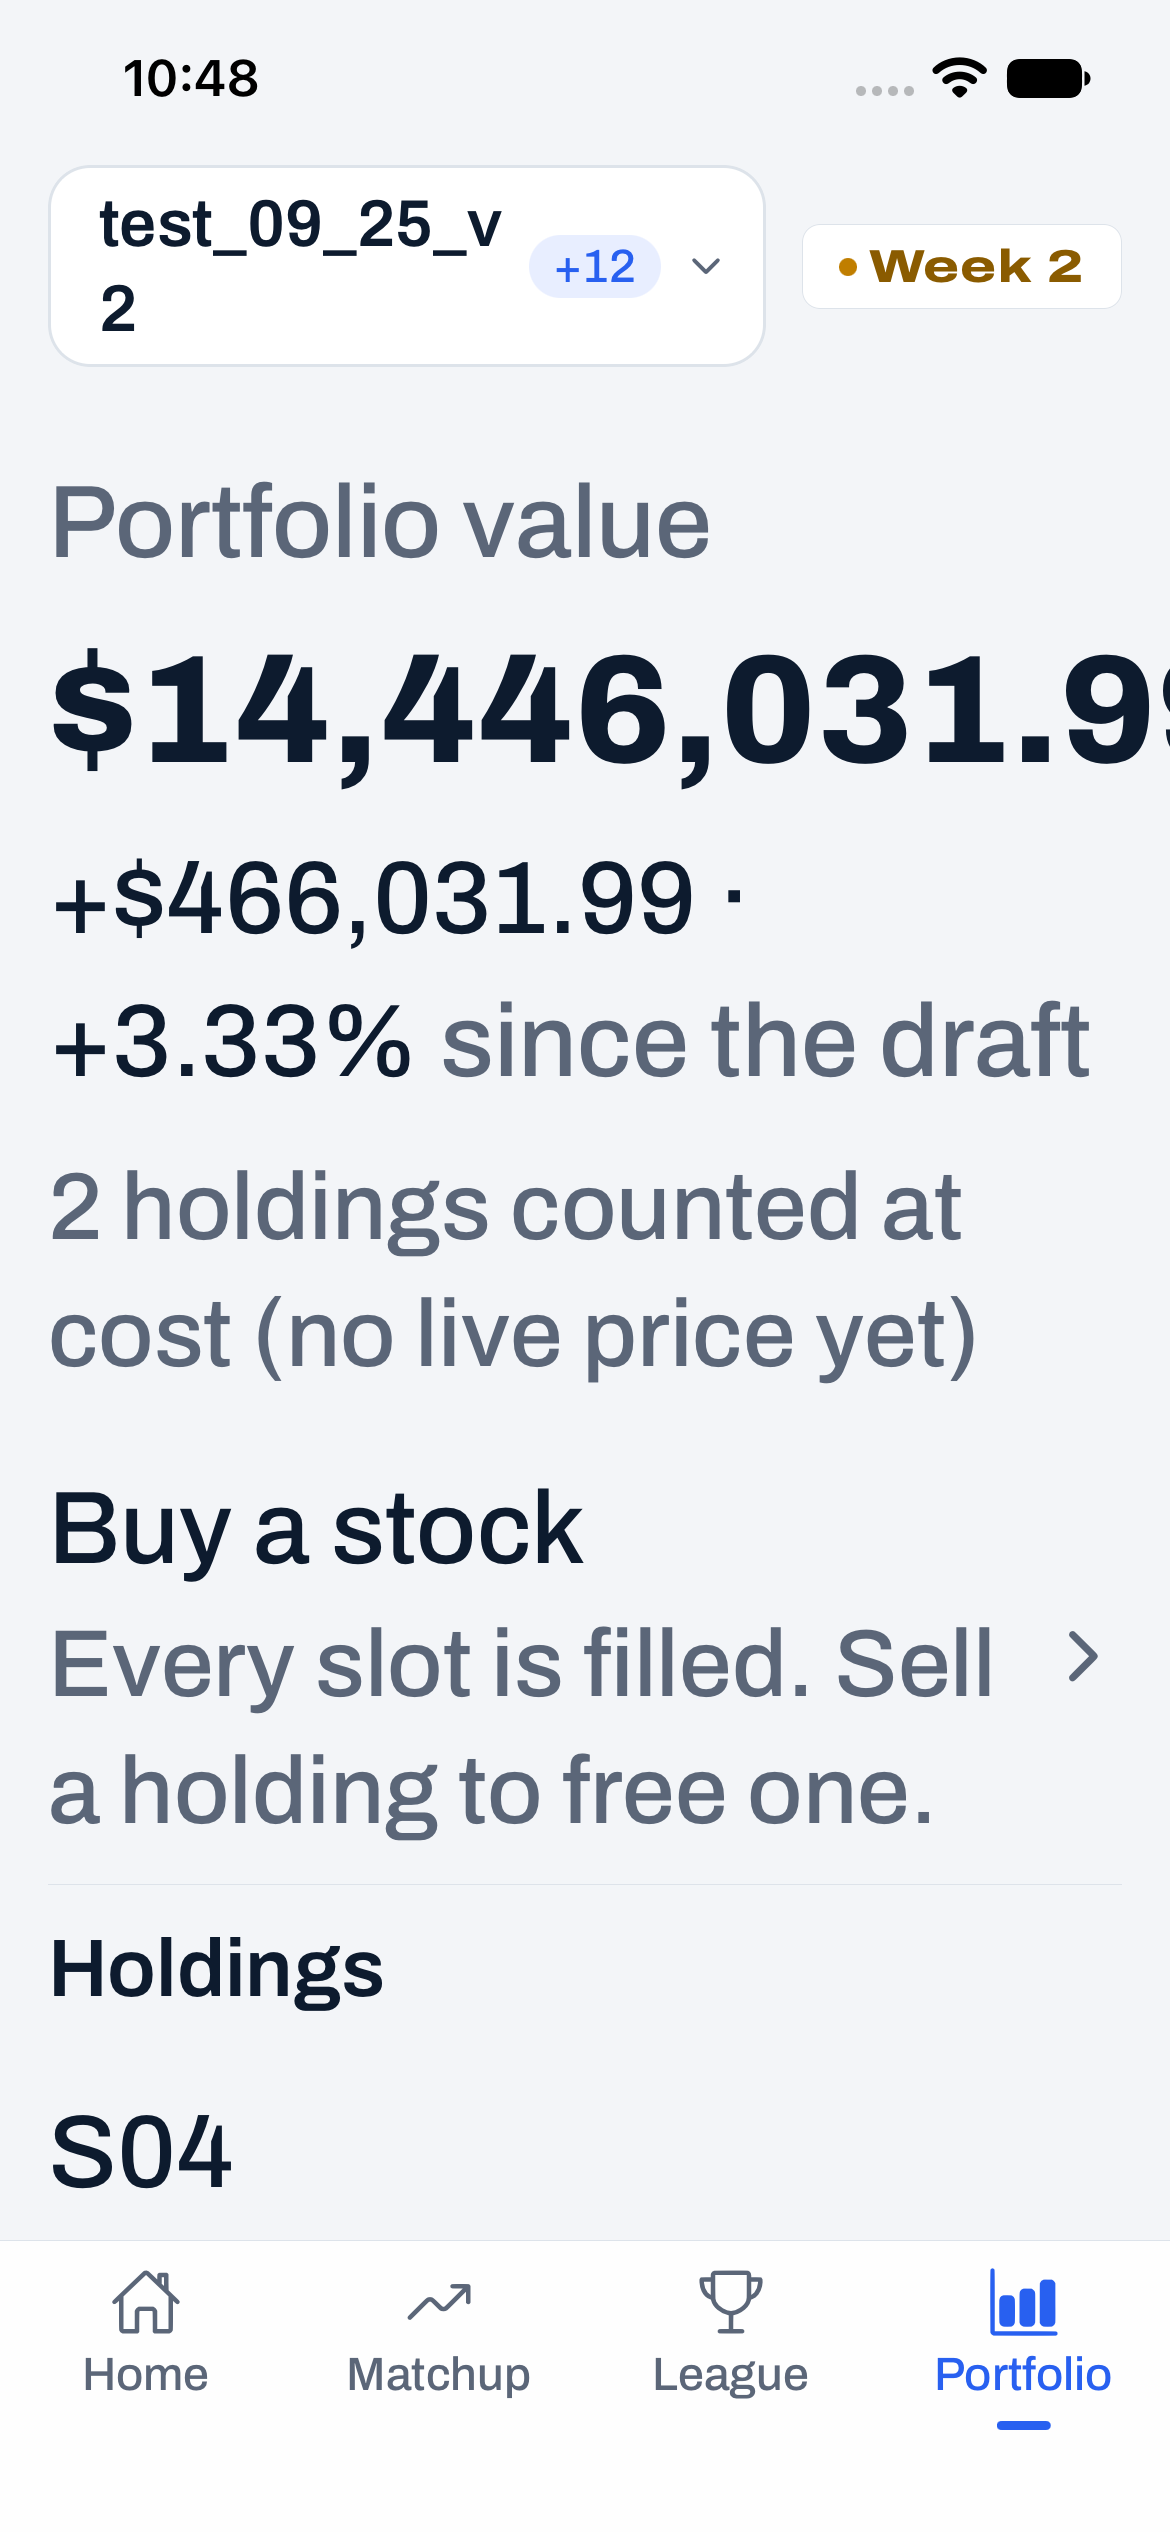
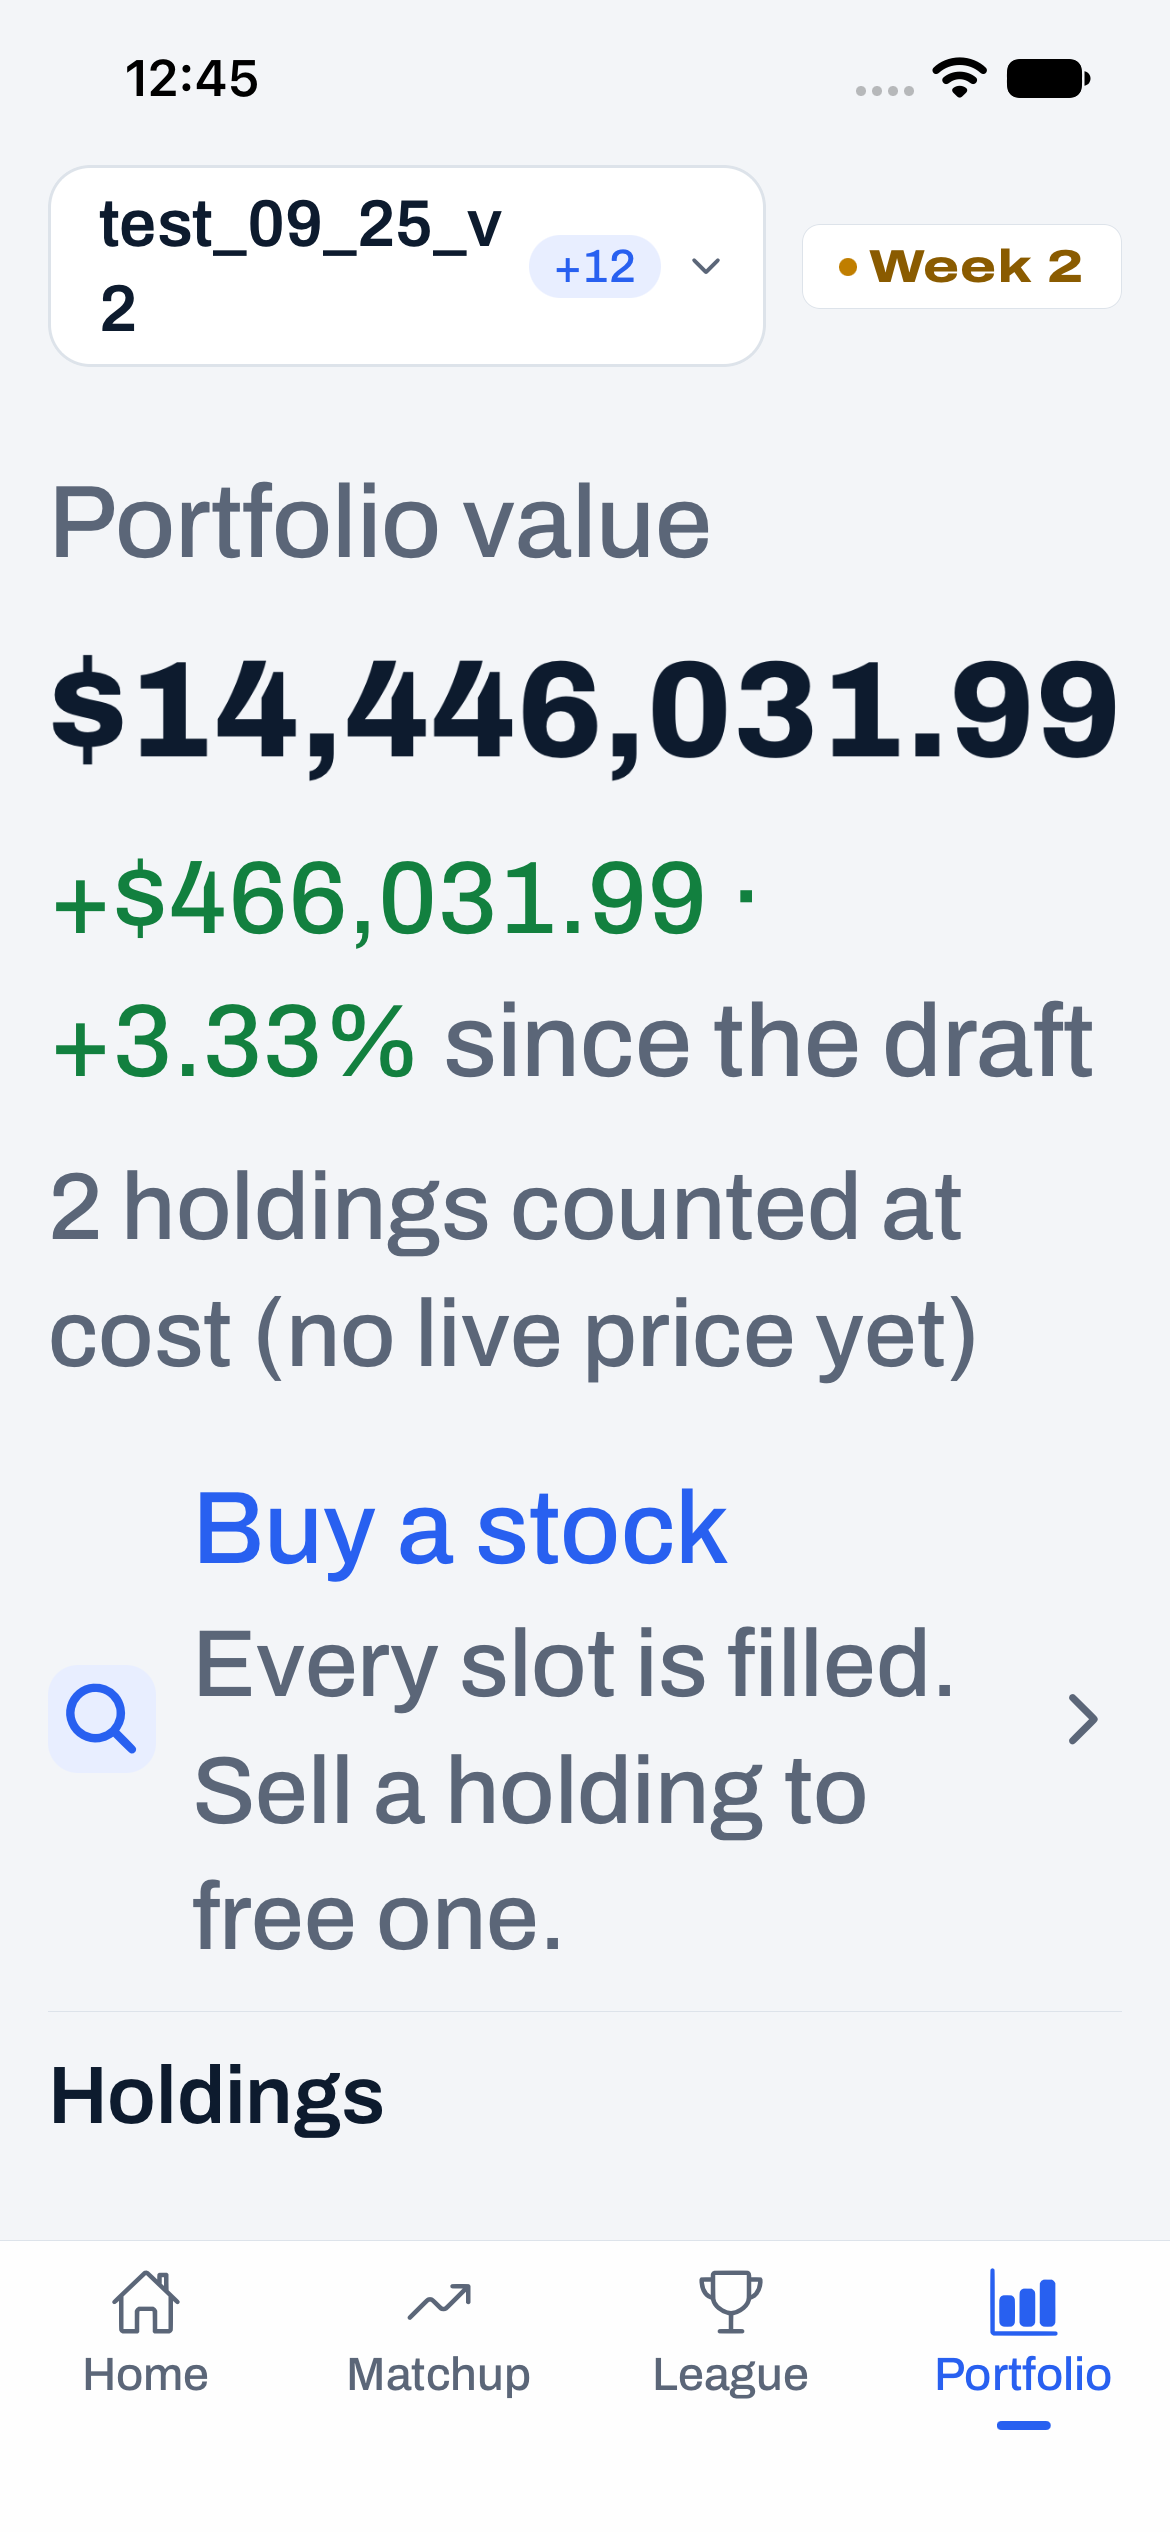
docs(design): X-1 re-captures, Portfolio XL, Home million XL, C-2 L/D
Re-captured after the fit-to-container fix (fix/rolling-money-fit,
aa3b1ac + f6e0ab2b): Portfolio's value renders in full at XL text, no
clip. Added home-hero-million-xl-light.png, proving the same shared
RollingMoney fix on Home's hero with a value of $1,000,000 or more
(the Design Lead's own ask, since the bug lives in a component used by
both screens). Also refreshed search-ownership-standard-light/dark.png
(C-2, unrelated to X-1) confirming they still hold after the merge.

diff --git a/docs/design/captures/ui-mobile-money/README.md b/docs/design/captures/ui-mobile-money/README.md
@@ -44,7 +44,22 @@ Captured with the `search_fail` / `search_delay` dev fixture scenarios
 
 | File(s) | Proves |
 |---|---|
-| `portfolio-buyrow-standard-light.png`, `…-standard-dark.png`, `…-xl-light.png` | Re-capture after the row was added (`19e2ba46`): the "Buy a stock" row sits under the slots summary, above Holdings, in Light, Dark and XL text. Predates C-9 (the search-icon tile and accent title, queued) — shown for context, not current. |
+| `portfolio-buyrow-standard-light.png`, `…-standard-dark.png`, `…-xl-light.png` | Re-capture after the row was added (`19e2ba46`): the "Buy a stock" row sits under the slots summary, above Holdings, in Light, Dark and XL text. Predates C-9 (the search-icon tile and accent title, queued) — shown for context, not current. `…-xl-light.png` was overwritten by the X-1 re-capture below (same screen, same state — only the header value's rendering changed), so it no longer shows the row-placement-only state this row describes. |
+
+## X-1 — RollingMoney fit-to-container (Design Lead final check, P0)
+
+The Design Lead's final check blocked on X-1: at XL text, Portfolio's value
+clipped its last digit (`$14,446,031.9`, the original `portfolio-buyrow-xl-light.png`).
+Fixed in `RollingMoney.tsx` (shared with Home's hero) by measuring the
+container and the row's own natural width, then shrinking the row to fit —
+see `fix/rolling-money-fit` (`aa3b1ac` + the `alignSelf: 'flex-start'`
+correction, `f6e0ab2b`) for the code and its Deno tests.
+
+| File(s) | Proves |
+|---|---|
+| `portfolio-buyrow-xl-light.png` | Re-capture, same screen as C-10's XL state above: `$14,446,031.99` now renders in full at XL text, shrunk to fit, no clip. |
+| `home-hero-million-xl-light.png` | Home's hero (the same `RollingMoney`) at XL with a value of $1,000,000 or more (`$1,234,567.80`, the `xl_million` DEV fixture) — the Design Lead asked for this case specifically, since a fix proven only on Portfolio wouldn't prove the shared component. |
+| `search-ownership-standard-light.png`, `…-dark.png` | Re-capture at default text size, unrelated to X-1 — confirms C-2 (own-line ownership text) still holds after the merge brought in main's changes since `ui/mobile-money` diverged. |
 
 ## C-3 — review-sell panel re-capture
 
